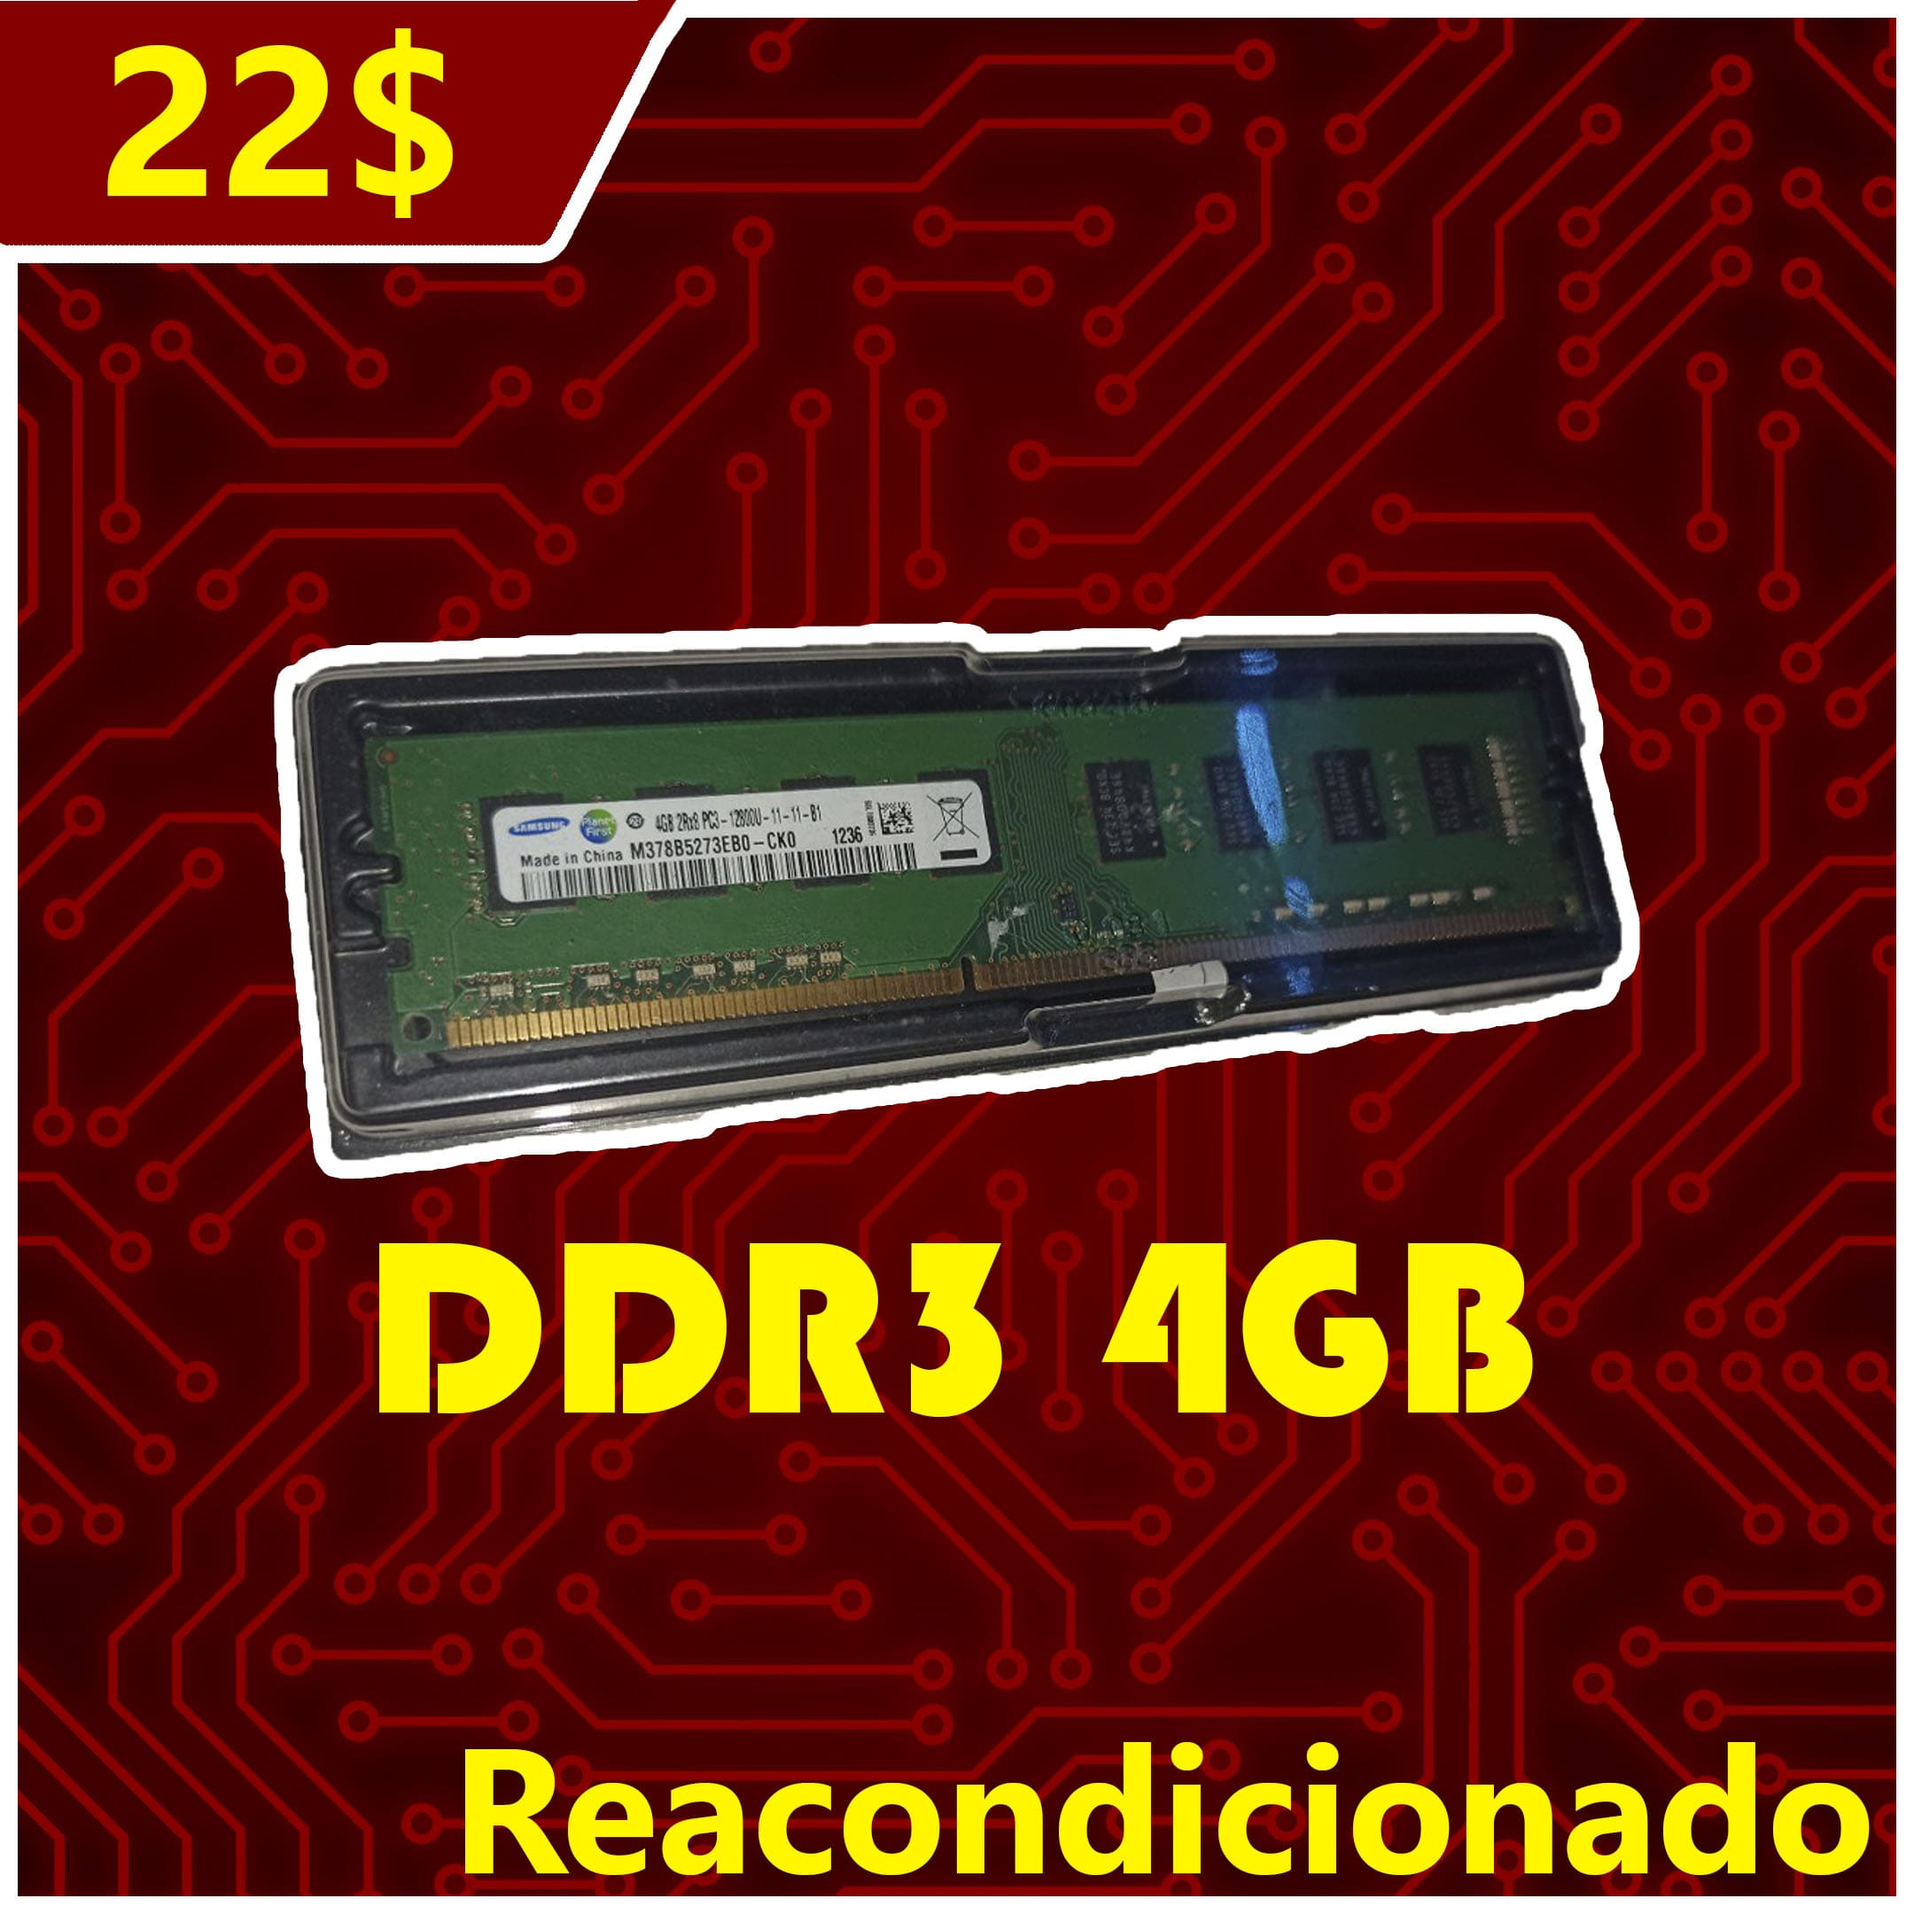
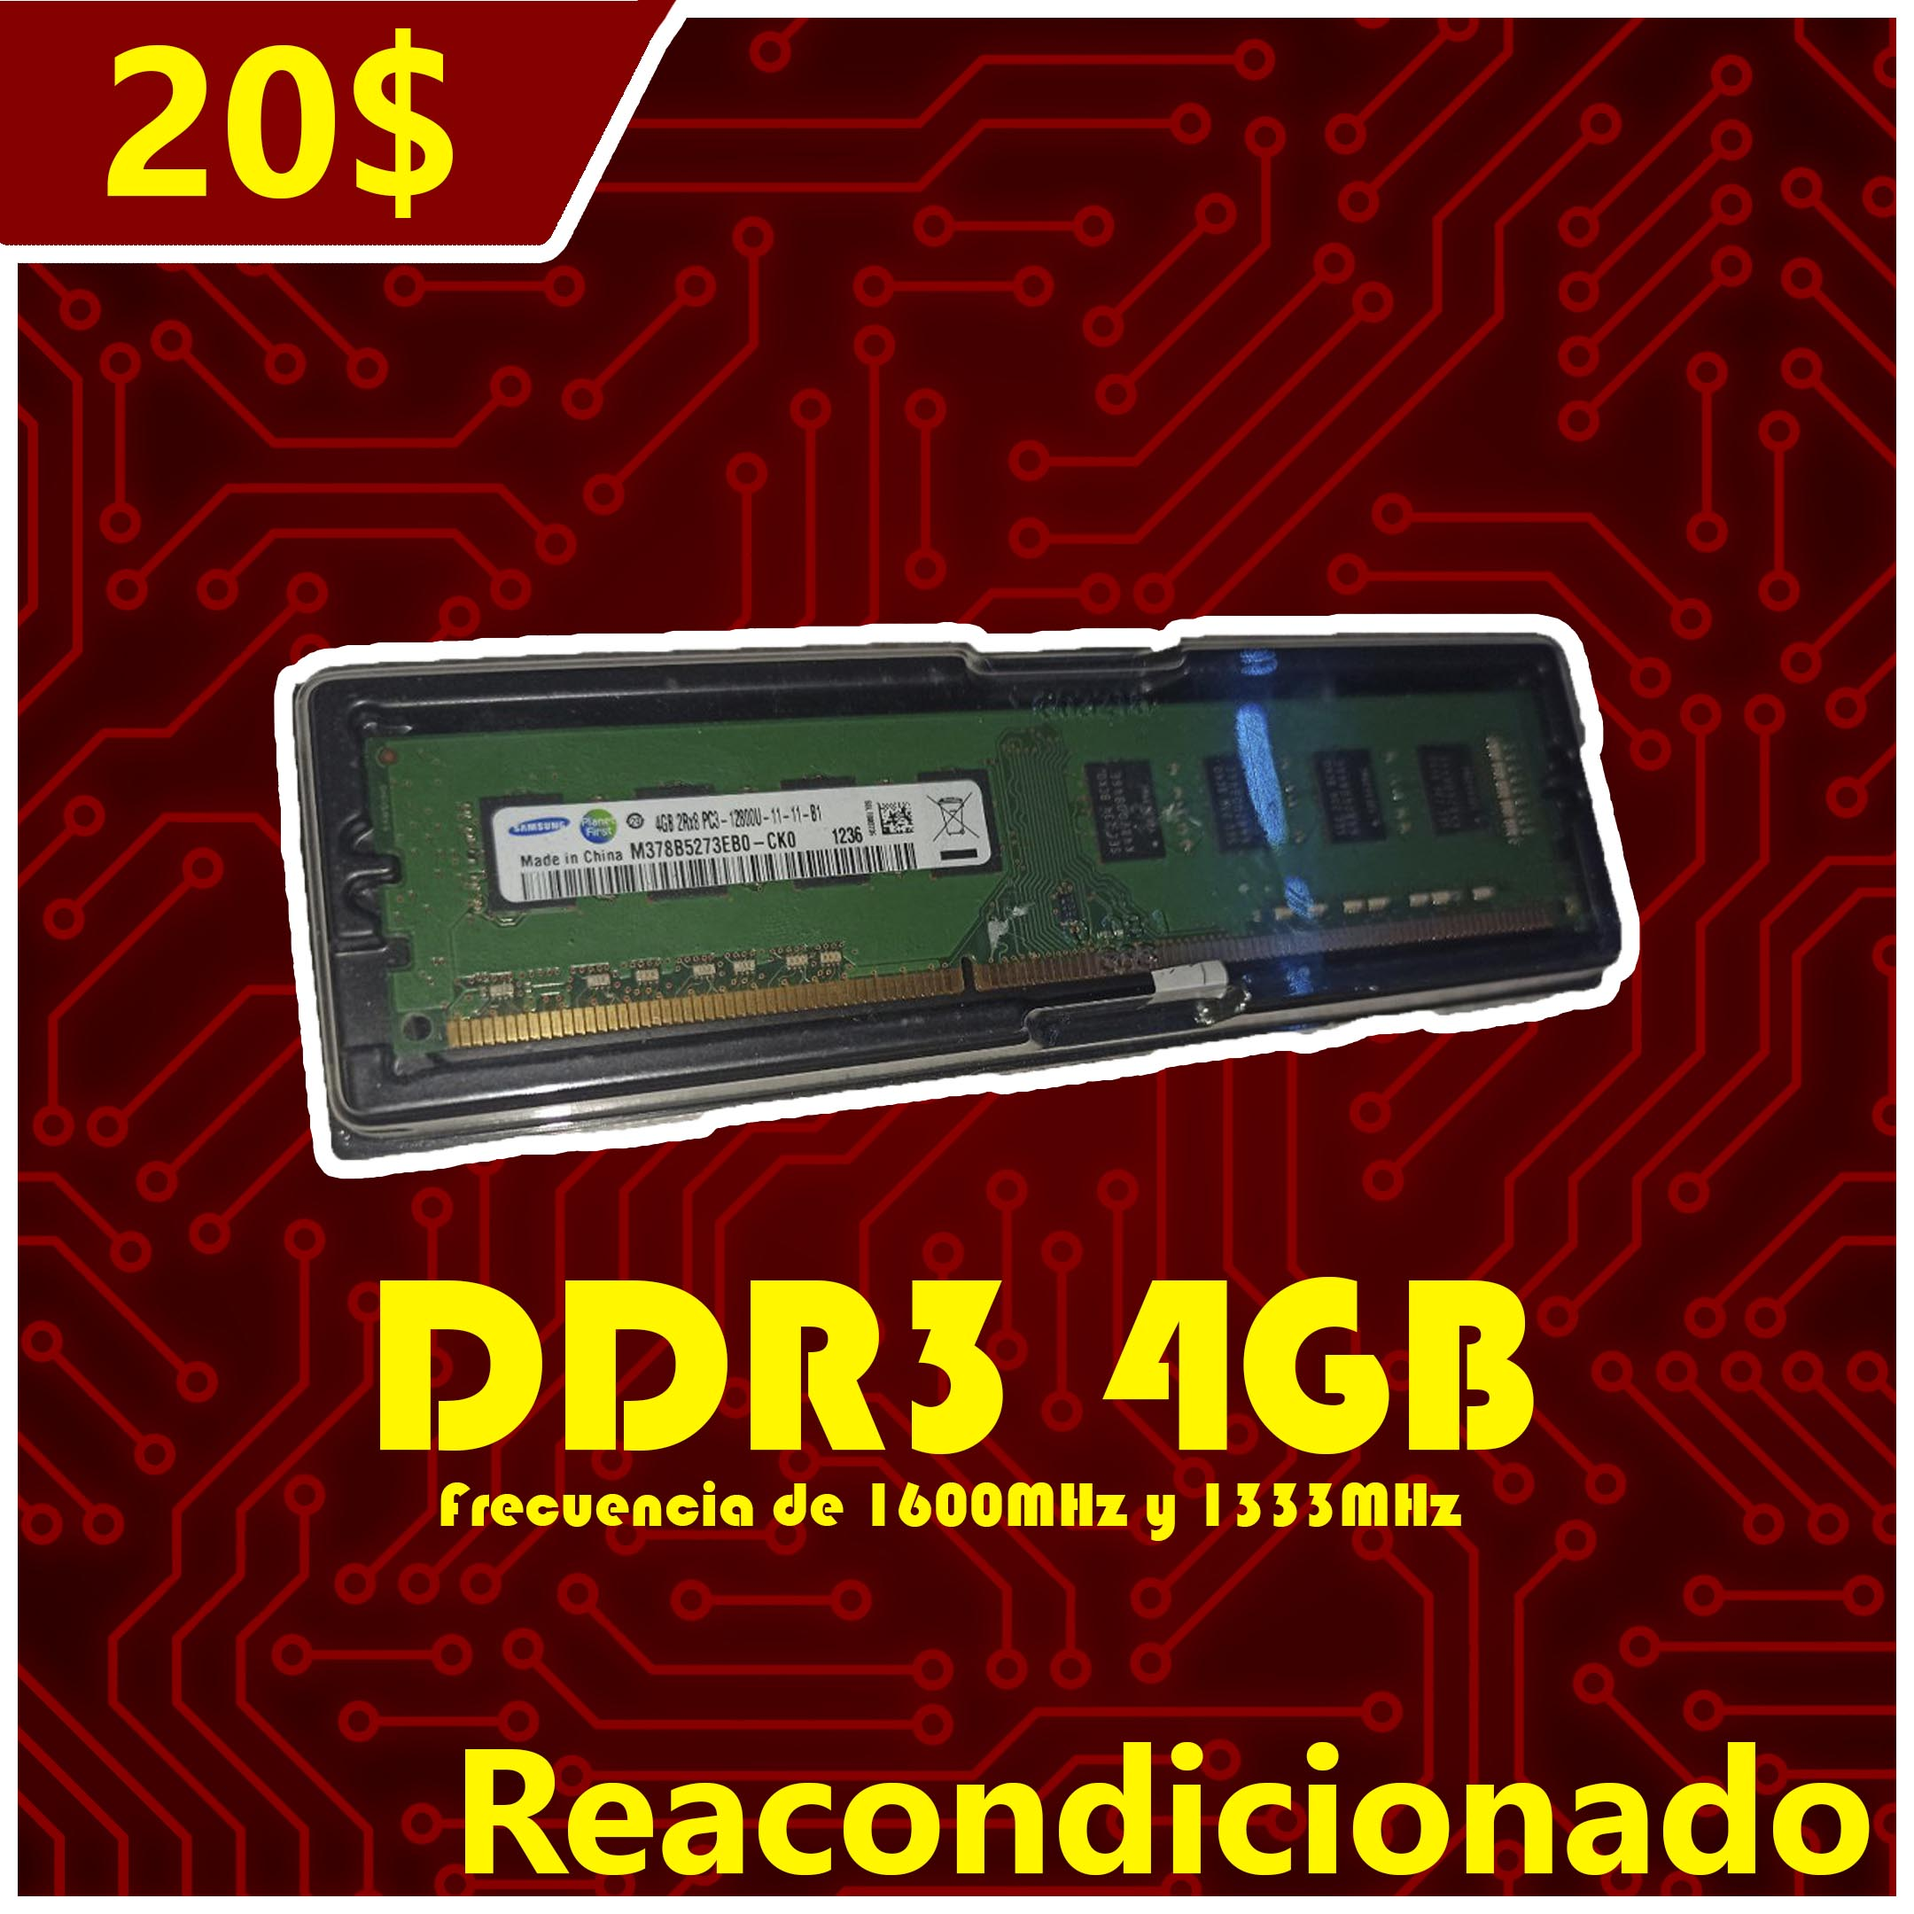
Add files via upload

Changed region(s): [[0.1861, 0.6514, 0.8065, 0.8065], [0.0931, 0.031, 0.1861, 0.1241]]

diff --git a/tienda.html b/tienda.html
@@ -46,7 +46,7 @@
         <div class="col-md-3">
           <a class="portfolio-item" style="background-image: url(img/portfolio-2.1.jpg);" href="https://wa.me/p/4929994107099490/584245022292">
             <div class="details">
-              <h4>Combo Placa y CPU Básico (20$)</h4>
+              <h4>Combo Placa y CPU Básico (18$)</h4>
               <span>Socket LGA775</span>
               <span>Placa PCChips P17</span>
               <span>Procesador Dual Core</span>
@@ -65,7 +65,7 @@
         <div class="col-md-3">
           <a class="portfolio-item" style="background-image: url(img/portfolio-2.2.jpg);" href="https://www.facebook.com/marketplace/item/5830039947012873/">
             <div class="details">
-              <h4>Core 2 Quad Q6600 (15$)</h4>
+              <h4>Core 2 Quad Q6600 (12$)</h4>
               <span>Socket LGA775</span>
               <span>2.4GHz</span>
               <span>Overcloackeable a 3GHz con MOD</span>
@@ -77,7 +77,7 @@
         <div class="col-md-3">
           <a class="portfolio-item" style="background-image: url(img/portfolio-2.jpg);" href="https://wa.me/message/VRY6V5JWBTQNH1">
             <div class="details">
-              <h4>Pentium G620 (10$)</h4>
+              <h4>Pentium G620 (7$)</h4>
               <span>Socket LGA1155</span>
               <span>2.6GHz</span>
               <span>Dual-core</span>
@@ -96,7 +96,7 @@
         <div class="col-md-3">
           <a class="portfolio-item" style="background-image: url(img/portfolio-3.jpg);" href="https://wa.me/p/5335270289903517/584245022292">
             <div class="details">
-              <h4>Memoria RAM DDR3 4GB (22$)</h4>
+              <h4>Memoria RAM DDR3 4GB (20$)</h4>
               <span>DDR3 DIMM</span>
               <span>4GB</span>
               <span>1333MHz</span>
@@ -163,7 +163,7 @@
         <div class="col-md-3">
           <a class="portfolio-item" style="background-image: url(img/portfolio-8.1.jpg);" href="">
             <div class="details">
-              <h4>Disipador Universal de CPU (13$)</h4>
+              <h4>Disipador Universal de CPU (10$)</h4>
               <span>TDP >80W</span>
               <span>Universal</span>
               <span>Incluye Pasta Térmica</span>
@@ -193,7 +193,7 @@
         <div class="col-md-3">
           <a class="portfolio-item" style="background-image: url(img/portfolio-1.jpg);" href="">
             <div class="details">
-              <h4>Case DELUX (30$)</h4>
+              <h4>Case DELUX (25$)</h4>
               <span>Micro ATX</span>
               <span>Incluye ensamble si trae las piezas</span>
               <span>Incluye un ventilador</span>
